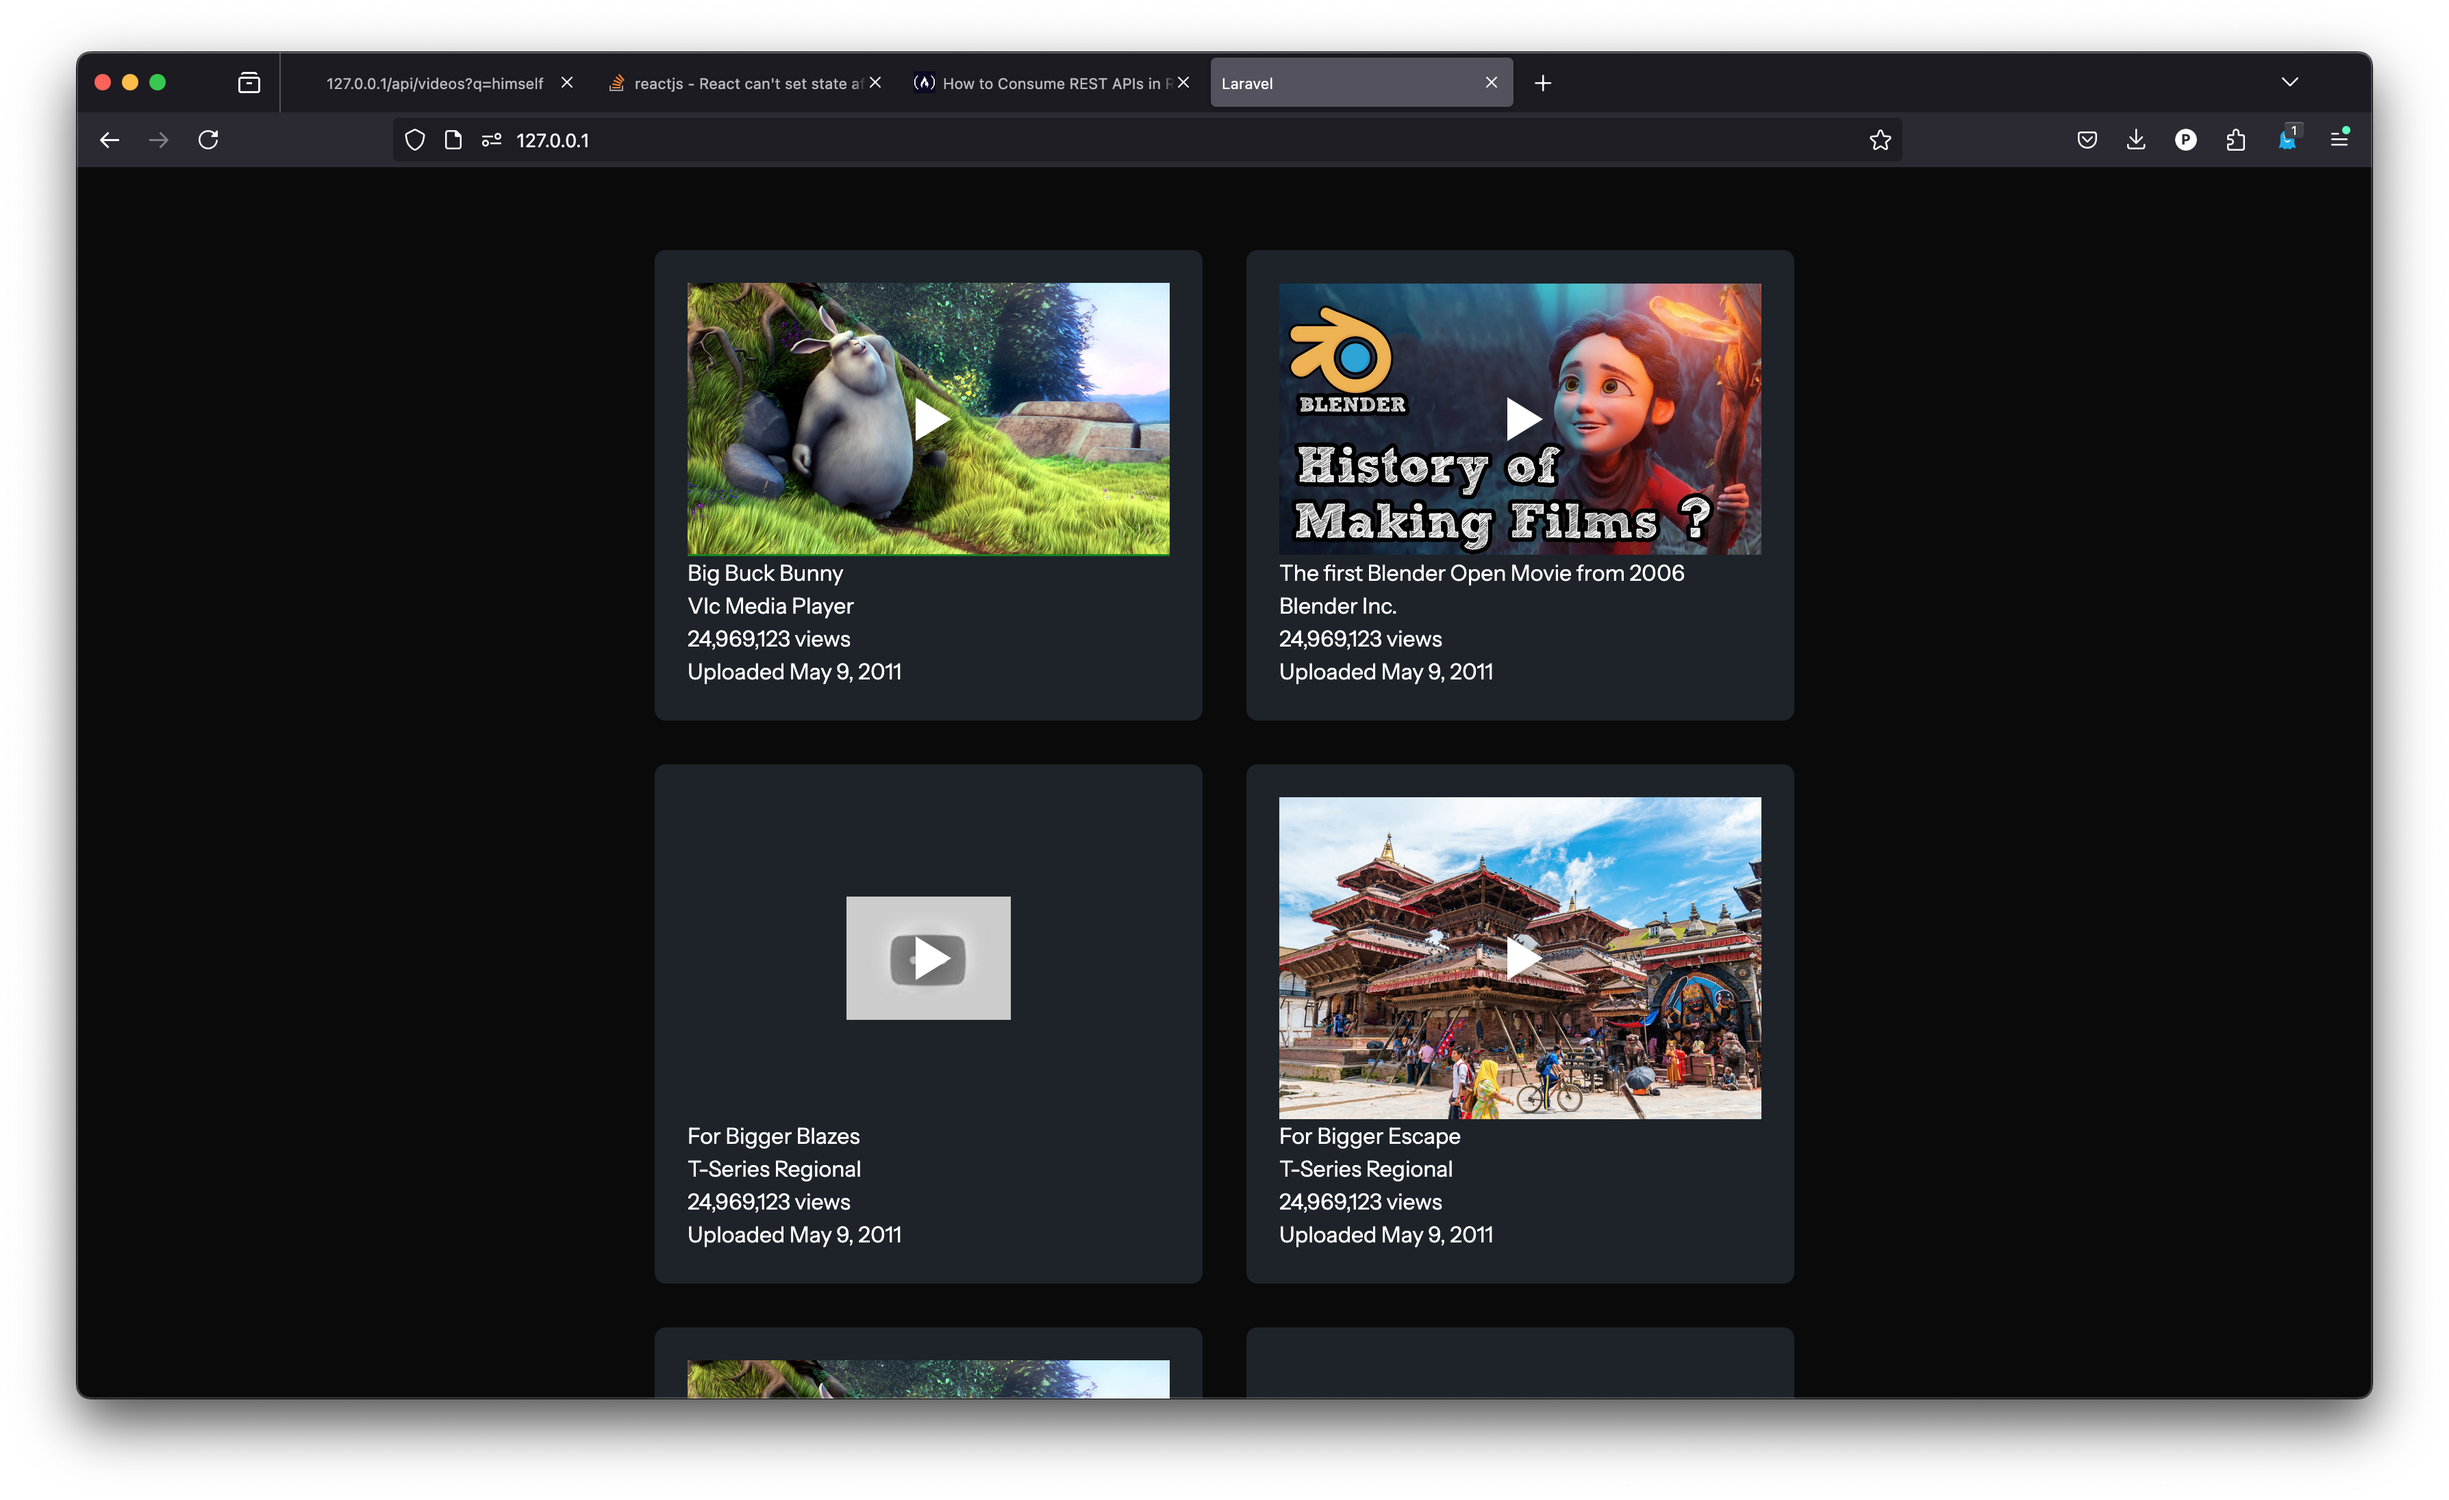
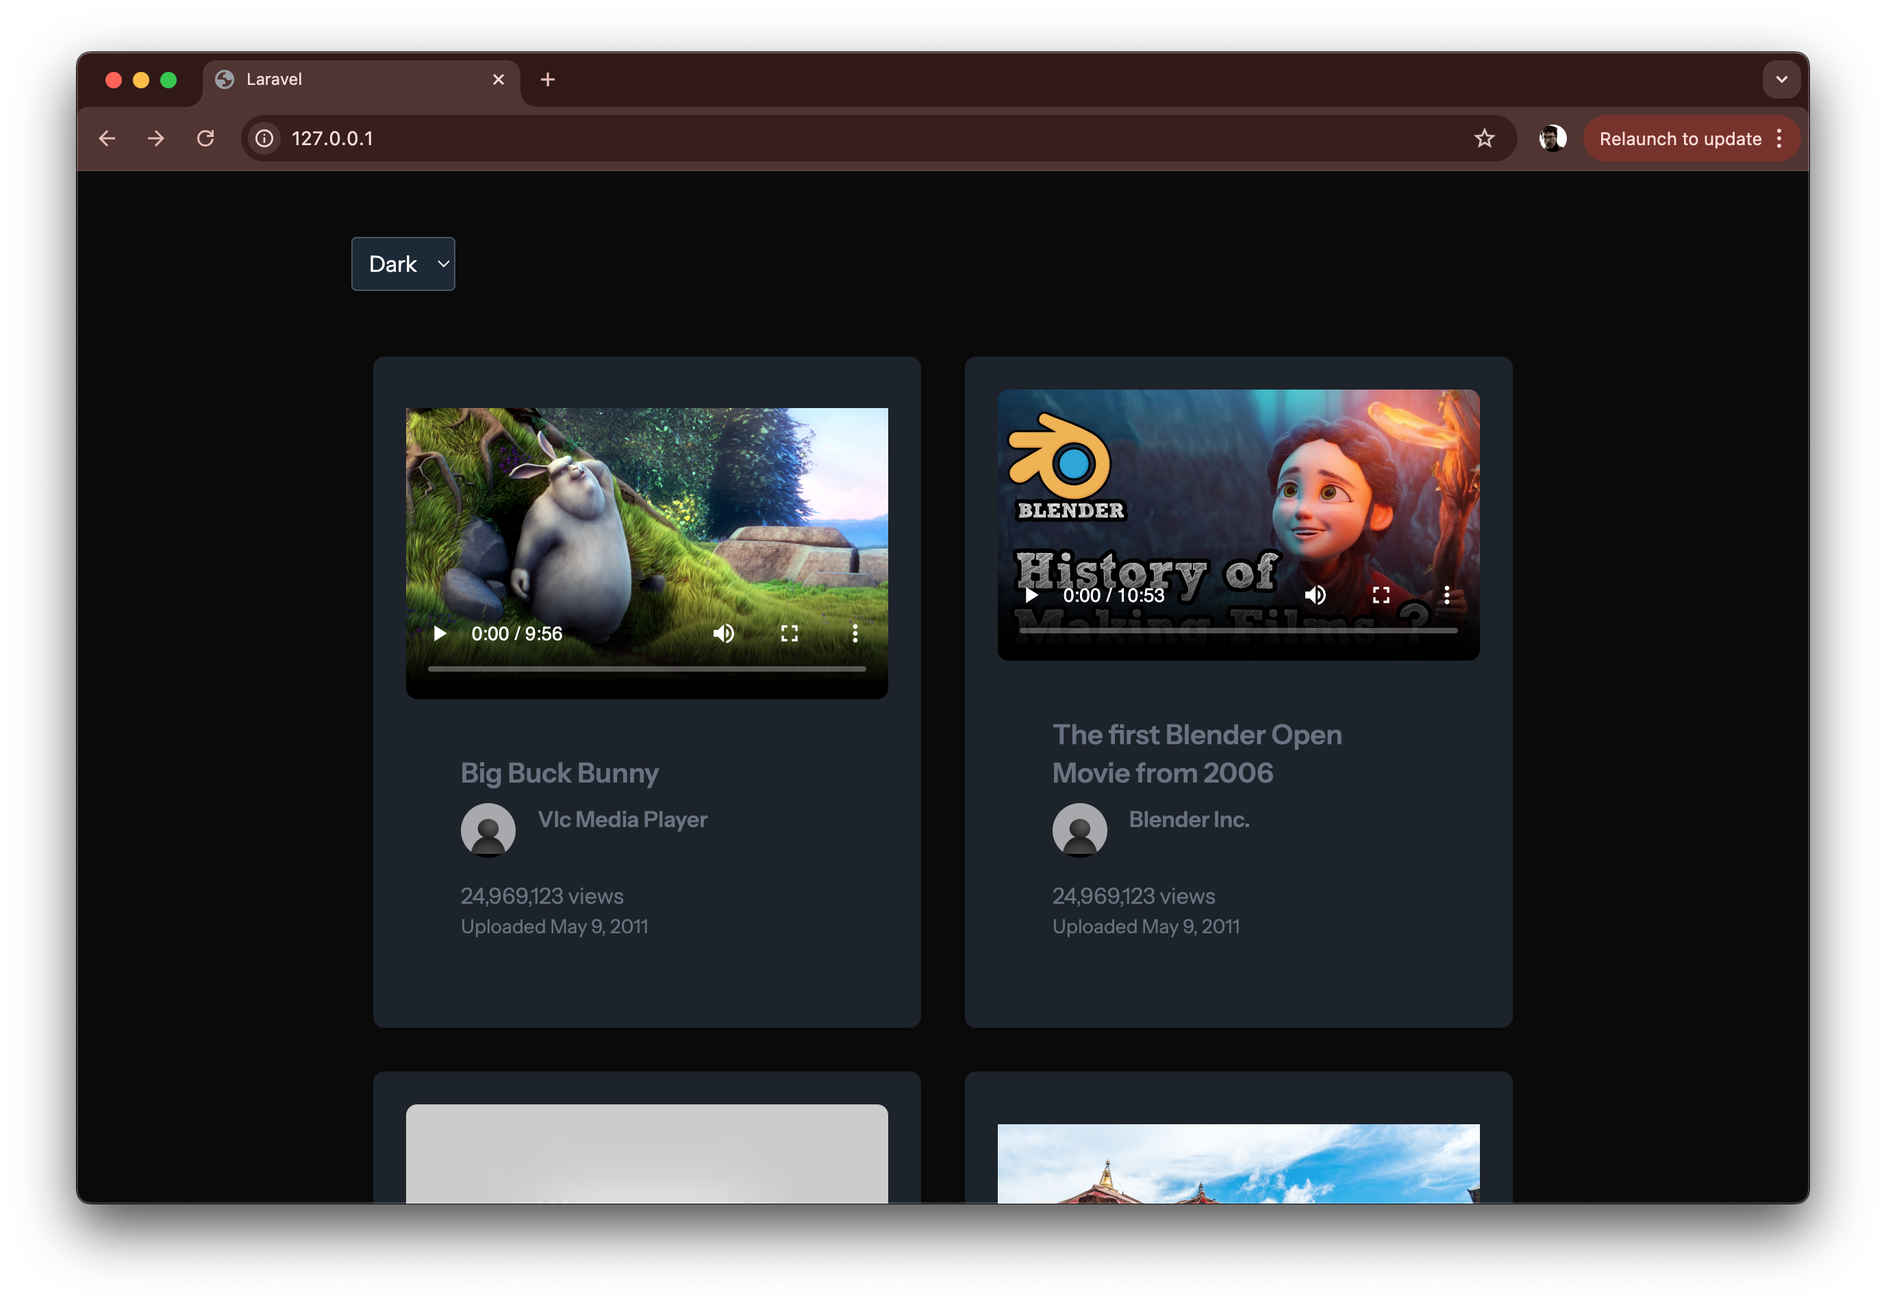
main: Update README.md. Add notes re: Dark/Light mode and latest poster image

diff --git a/README.md b/README.md
@@ -6,9 +6,11 @@
 
 VideoGrid is a simple video grid component with play / autoplay / preview image functionality. 
 Both the Grid and the Player are React based and responsive. It has been built with
+
 - [Laravel 12](https://laravel.com/docs/12.x/releases)
 - [React 18](https://react.dev/blog/2022/03/29/react-v18)
-- [Tailwind CSS](https://tailwindcss.com/)
+- [Tailwind 4 CSS](https://tailwindcss.com/)
+- [DaisyUI](https://daisyui.com/)
 - HTML5 Video
 
 In addition, it makes use of [Docker](http://docker.io) through Laravel Sail
@@ -24,10 +26,19 @@ You can access the videos API at `http://127.0.0.1/api/videos?q=himself` where q
 - PHP 8.3+
 - Docker
 
-## NB
-- No https has been configured for the purpose of this exercise
-- I ~~will~~ use Axios to feed React, but in all truth I shouldn't need to, it'd be faster to just use Laravel Blade
-- I have just noticed some duplicates, e.g. "The first Blender Open Movie from 2006" with an `isLive` status set to true and false respectively (ID's 7 and 8). I presume I have to d something clever here - working on it 
+## NOTES
+- I originally set to use react-player. Because of the notes I thought that I'd have to customize the controls of the player, i.e. remove all controls 
+but the volume ones, so I swapped to native Video HTML5. This got eventually working, but after I realised that I didn't need to remove all controls.
+- Nevertheless, that was a god change as it allowed for hover/blur controls.
+- There is a Dark/Light switcher. It was added to learn the Tailwind CSS4 way of doing it. It's imperfect in the sense that I have nt created custom themes, just using the Tailwind CSS selectors. 
+Also,it won't store the preference to **localStore**. It means that if you reload the app, it will revert to light. 
+- No https has been configured for the purpose of this exercise.
+- I ~~will~~ use Axios to feed React, but in all truth I shouldn't need to, it'd be faster to just use Laravel Blade.
+- I have just noticed some duplicates, e.g. "The first Blender Open Movie from 2006" with an `isLive` status set to true and false respectively (ID's 7 and 8). 
+
+## KNOWN ISSUES
+- When hovering over using **Firefox**, if one moves to the Volume controls to enable sound and then leaves, the video stops. That's due to Mozilla's implementation of the Video element. I can think f a fix, but I've run out of time.
+- I don't like the `startPreview`, `endPreview` legacy JS code in the `.ts` file. They should be in a provider. However, I had issues getting this to work, and I'd run out of time. I can elaborate if we discuss ver a call. 
 
 ## License
 
